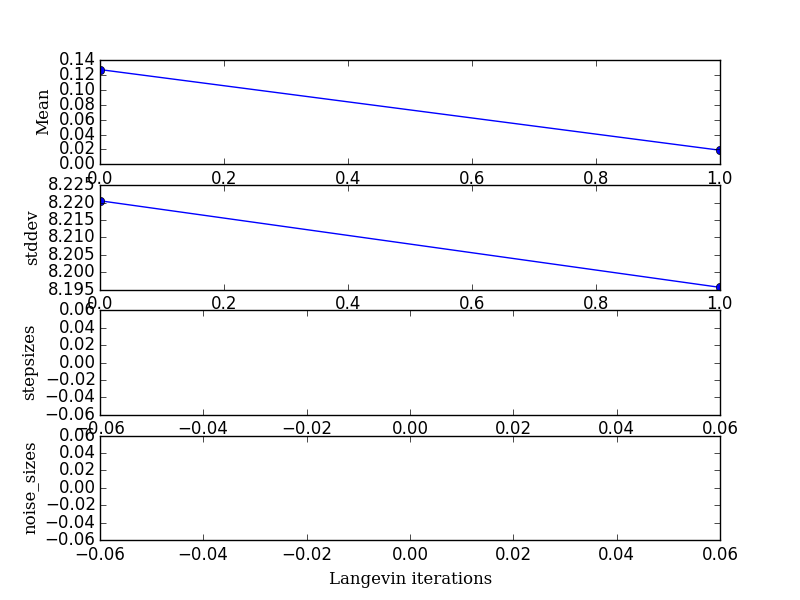
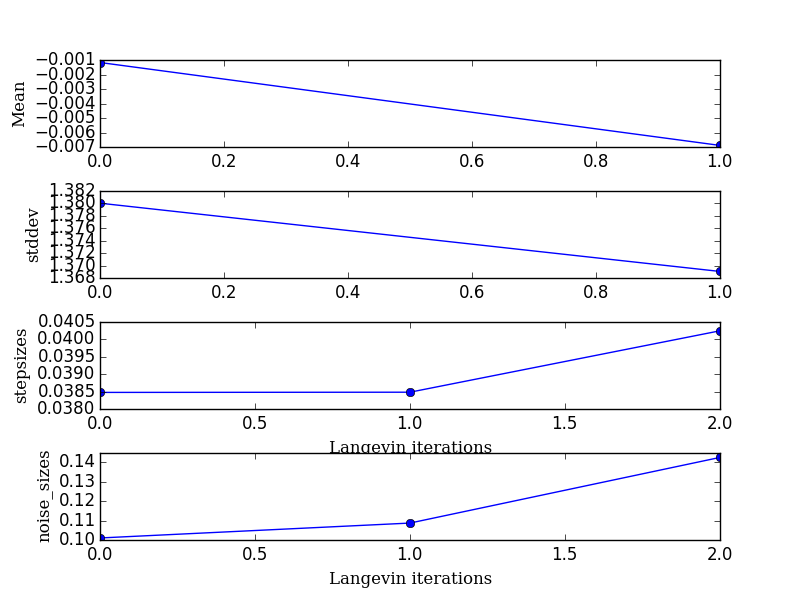
Got Gaussian sanity check working, yay

diff --git a/tests/test_log_det_calc.py b/tests/test_log_det_calc.py
@@ -3,9 +3,12 @@ import autograd.numpy.random as npr
 
 from autopaint.util import fast_array_from_list
 from autopaint.inference import exact_log_det, exact_log_det_vectorized, approx_log_det,\
-    gradient_step_track_entropy_vectorized, gradient_step_track_entropy, approx_log_det_vectorized
+    gradient_step_track_entropy_vectorized, gradient_step_track_entropy, approx_log_det_vectorized,\
+    build_langevin_sampler, sum_entropy_lower_bound
+from autopaint.util import logprob_two_moons, logprob_mvn
 
 from autograd import grad, elementwise_grad
+from autograd.util import quick_grad_check, check_grads
 
 def test_exact_log_det():
     D = 10
@@ -73,14 +76,6 @@ def test_approx_log_det_vectorized():
     assert np.all(vec_logdets - alds < 0.0001), "vectorized: {} non-vectorized: {}, diff: {}".format(vec_logdets, alds, vec_logdets - alds)
 
 
-def logprob_two_moons(z):
-    z1 = z[:, 0]
-    z2 = z[:, 1]
-    print z
-    return - 0.5 * ((np.sqrt(z1**2 + z2**2) - 2 ) / 0.4)**2\
-            + np.logaddexp(-0.5 * ((z1 - 2) / 0.6)**2, -0.5 * ((z1 + 2) / 0.6)**2)
-
-
 def test_entropy_bound_vectorized_vs_not():
     D = 2
     N = 1
@@ -121,3 +116,68 @@ def test_approx_log_det():
     exact = exact_log_det(mvp, D)
     assert exact > approx > (exact - 0.1 * np.abs(exact))
     print exact, approx
+
+
+def test_likelihood_gradient():
+    quick_grad_check(logprob_two_moons, np.atleast_2d(np.array([0.1, 0.2]).T))
+
+def test_likelihood_gradient():
+    quick_grad_check(logprob_two_moons, np.atleast_2d(np.array([0.1, 0.2]).T))
+
+
+def test_meta_gradient_with_langevin():
+    num_samples = 4
+    num_langevin_steps = 3
+
+    D = 2
+    init_mean = npr.randn(D) * 0.01
+    init_log_stddevs = np.log(1*np.ones(D)) + npr.randn(D) * 0.01
+    init_log_stepsizes = np.log(0.01*np.ones(num_langevin_steps)) + npr.randn(num_langevin_steps) * 0.01
+    init_log_noise_sizes = np.log(.001*np.ones(num_langevin_steps)) + npr.randn(num_langevin_steps) * 0.01
+
+    sample_and_run_langevin, parser = build_langevin_sampler(logprob_two_moons, D, num_langevin_steps, approx=False)
+
+    sampler_params = np.zeros(len(parser))
+    parser.put(sampler_params, 'mean', init_mean)
+    parser.put(sampler_params, 'log_stddev', init_log_stddevs)
+    parser.put(sampler_params, 'log_stepsizes', init_log_stepsizes)
+    parser.put(sampler_params, 'log_noise_sizes', init_log_noise_sizes)
+
+    def get_batch_marginal_likelihood_estimate(sampler_params):
+        rs = np.random.npr.RandomState(0)
+        samples, loglik_estimates, entropy_estimates = sample_and_run_langevin(sampler_params, rs, num_samples)
+        marginal_likelihood_estimates = loglik_estimates + entropy_estimates
+        return np.mean(marginal_likelihood_estimates)
+
+    check_grads(get_batch_marginal_likelihood_estimate, sampler_params)
+
+
+def test_meta_gradient_with_langevin_mvn():
+    num_samples = 4
+    num_langevin_steps = 3
+
+    D = 2
+    init_mean = npr.randn(D) * 0.01
+    init_log_stddevs = np.log(1*np.ones(D)) + npr.randn(D) * 0.01
+    init_log_stepsizes = np.log(0.01*np.ones(num_langevin_steps)) + npr.randn(num_langevin_steps) * 0.01
+    init_log_noise_sizes = np.log(.001*np.ones(num_langevin_steps)) + npr.randn(num_langevin_steps) * 0.01
+
+    sample_and_run_langevin, parser = build_langevin_sampler(logprob_mvn, D, num_langevin_steps, approx=False)
+
+    sampler_params = np.zeros(len(parser))
+    parser.put(sampler_params, 'mean', init_mean)
+    parser.put(sampler_params, 'log_stddev', init_log_stddevs)
+    parser.put(sampler_params, 'log_stepsizes', init_log_stepsizes)
+    parser.put(sampler_params, 'log_noise_sizes', init_log_noise_sizes)
+
+    def get_batch_marginal_likelihood_estimate(sampler_params):
+        rs = np.random.npr.RandomState(0)
+        samples, loglik_estimates, entropy_estimates = sample_and_run_langevin(sampler_params, rs, num_samples)
+        marginal_likelihood_estimates = loglik_estimates + entropy_estimates
+        return np.mean(marginal_likelihood_estimates)
+
+    check_grads(get_batch_marginal_likelihood_estimate, sampler_params)
+
+
+def test_entropy_lower_bound():
+    assert sum_entropy_lower_bound(1.0, 0.0) == 1.0

diff --git a/autopaint/inference.py b/autopaint/inference.py
@@ -1,15 +1,8 @@
 import autograd.numpy as np
 from autograd import grad, elementwise_grad
 
-from .util import WeightsParser, fast_array_from_list
-
-
-def entropy_of_a_gaussian(stddevs):
-    D = len(stddevs)
-    return 0.5 * D * (1 + np.log(2*np.pi)) + np.sum(np.log(stddevs))
-
-def entropy_of_a_spherical_gaussian(stddev, D):
-    return 0.5 * D * (1 + np.log(2*np.pi)) + D * np.log(stddev)
+from .util import WeightsParser, fast_array_from_list,\
+    entropy_of_a_gaussian, entropy_of_a_spherical_gaussian
 
 def approx_log_det(mvp, D, rs):
     # This should be an unbiased estimator of a lower bound on the log determinant
@@ -101,13 +94,11 @@ def gradient_step_track_entropy_vectorized(gradfun, xs, stepsize, rs, approx):
     xs += stepsize * gradients
     return xs, delta_entropy
 
-
 def sum_entropy_lower_bound(entropy_a, entropy_b, D):
     """Returns lower bound of X + Y given the entropy of X and Y.
     Uses the entropy power inequality.
     https://en.wikipedia.org/wiki/Entropy_power_inequality"""
     return 0.5 * D * np.logaddexp(2.0 * entropy_a / D, 2.0 * entropy_b / D)
-
 
 def gradient_ascent_entropic(gradfun, entropies, xs, stepsizes, noise_sizes, rs, callback, approx):
     assert len(stepsizes) == len(noise_sizes)
@@ -141,18 +132,18 @@ def build_langevin_sampler(loglik_func, D, num_steps, approx):
 
     def sample_and_run_langevin(params, rs, num_samples, callback=None):
         mean = parser.get(params, 'mean')
-        stddev = np.exp(parser.get(params, 'log_stddev'))
+        stddevs = np.exp(parser.get(params, 'log_stddev'))
         stepsizes = np.exp(parser.get(params, 'log_stepsizes'))
         noise_sizes = np.exp(parser.get(params, 'log_noise_sizes'))
 
-        initial_entropies = np.full(num_samples, entropy_of_a_gaussian(stddev))
-        init_xs = mean + rs.randn(num_samples, D) * stddev
+        initial_entropies = np.full(num_samples, entropy_of_a_gaussian(stddevs))
+        init_xs = mean + rs.randn(num_samples, D) * stddevs
 
         samples, entropy_estimates = gradient_ascent_entropic(gradfun, entropies=initial_entropies, xs=init_xs,
                                                             stepsizes=stepsizes, noise_sizes=noise_sizes,
                                                             rs=rs, callback=callback, approx=approx)
+
         loglik_estimates = loglik_func(samples)
-        #marginal_likelihood_estimates = loglik_estimates + final_entropies
         return samples, loglik_estimates, entropy_estimates
 
     return sample_and_run_langevin, parser

diff --git a/experiments/2-test-langevin/4-gaussian/main.py b/experiments/2-test-langevin/4-gaussian/main.py
@@ -12,24 +12,7 @@ import matplotlib.pyplot as plt
 
 from autopaint.plotting import *
 from autopaint.inference import build_langevin_sampler
-
-def logprob_two_moons(z):
-    z1 = z[:, 0]
-    z2 = z[:, 1]
-    return (- 0.5 * ((np.sqrt(z1**2 + z2**2) - 2 ) / 0.4)**2\
-            + np.logaddexp(-0.5 * ((z1 - 2) / 0.6)**2, -0.5 * ((z1 + 2) / 0.6)**2))
-
-def logprob_wiggle(z):
-    z1 = z[:, 0]
-    z2 = z[:, 1]
-    return -0.5 * (z2 - np.sin(2.0 * np.pi * z1 / 4.0) / 0.4 )**2 - 0.2 * (z1**2 + z2**2)
-
-cov = np.array([[1.0, 0.0], [0.0, 1.0]])
-pinv = np.linalg.inv(cov)
-(sign, logdet) = numpy.linalg.slogdet(cov)
-const =  -0.5 * 2 * np.log(2*np.pi) - 0.5 * logdet
-def logprob_mvn(z):
-    return const - 0.5 * np.dot(np.dot(z, pinv), z.T)
+from autopaint.util import logprob_mvn
 
 def plot_sampler_params(params, filename):
 
@@ -59,6 +42,7 @@ def plot_sampler_params(params, filename):
     ax.set_ylabel('noise_sizes', fontproperties='serif')
     ax.set_xlabel('Langevin iterations', fontproperties='serif')
 
+    fig.subplots_adjust(hspace=.5)
     plt.savefig(filename)
 
 
@@ -66,16 +50,16 @@ if __name__ == '__main__':
 
     t0 = time.time()
 
-    num_samples = 200
-    num_langevin_steps =0
+    num_samples = 2000
+    num_langevin_steps = 3
     num_sampler_optimization_steps = 200
     sampler_learn_rate = 0.2
 
     D = 2
     init_mean = np.zeros(D)
-    init_log_stddevs = np.log(1*np.ones(D))
-    init_log_stepsizes = np.log(0.01*np.ones(num_langevin_steps))
-    init_log_noise_sizes = np.log(.001*np.ones(num_langevin_steps))
+    init_log_stddevs = np.log(1.0*np.ones(D))
+    init_log_stepsizes = np.log(0.1*np.ones(num_langevin_steps))
+    init_log_noise_sizes = np.log(0.1*np.ones(num_langevin_steps))
 
     rs = np.random.npr.RandomState(0)
 

diff --git a/autopaint/util.py b/autopaint/util.py
@@ -99,3 +99,35 @@ def sample_from_gaussian_model(images, prefix):
 
 def fast_array_from_list(xs):
     return np.concatenate([np.expand_dims(x, axis=0) for x in xs], axis=0)
+
+
+# Some example test likelihood functions
+
+def logprob_two_moons(z):
+    z1 = z[:, 0]
+    z2 = z[:, 1]
+    return (- 0.5 * ((np.sqrt(z1**2 + z2**2) - 2 ) / 0.4)**2\
+            + np.logaddexp(-0.5 * ((z1 - 2) / 0.6)**2, -0.5 * ((z1 + 2) / 0.6)**2))
+
+def logprob_wiggle(z):
+    z1 = z[:, 0]
+    z2 = z[:, 1]
+    return -0.5 * (z2 - np.sin(2.0 * np.pi * z1 / 4.0) / 0.4 )**2 - 0.2 * (z1**2 + z2**2)
+
+def log_normalizing_constant_of_a_guassian(cov):
+    D = cov.shape[0]
+    (sign, logdet) = np.linalg.slogdet(cov)
+    return -0.5 * D * np.log(2*np.pi) - 0.5 * logdet
+
+cov = np.array([[1.0, 0.9], [0.9, 1.0]])
+pinv = np.linalg.pinv(cov)
+const = log_normalizing_constant_of_a_guassian(cov)
+def logprob_mvn(z):
+    return const - 0.5 * np.einsum('ij,jk,ik->i', z, pinv, z)
+
+def entropy_of_a_gaussian(stddevs):
+    D = len(stddevs)
+    return 0.5 * D * (1.0 + np.log(2*np.pi)) + np.sum(np.log(stddevs))
+
+def entropy_of_a_spherical_gaussian(stddev, D):
+    return 0.5 * D * (1.0 + np.log(2*np.pi)) + D * np.log(stddev)
